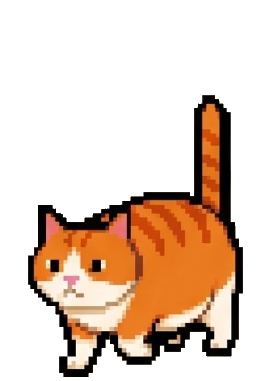
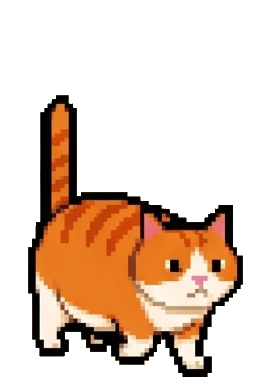
Afinar gatos: mirror de caminar, +50% tamaño, caja con gravedad y clics nuevos
- Caminar: se espeja orange_walk_0 para que ambos frames miren al mismo lado
  (antes cada frame miraba a un lado); la app voltea según la dirección.
- Tamaño de los gatos +50% (CatPx = CatSize * 1.5) en render, suelo y colisiones.
- La caja ahora también cae por gravedad hasta el fondo al soltarla; solo se
  guarda su posición horizontal.
- Clics del gato: IZQUIERDO mantenido = cargar/arrastrar; izquierdo solo =
  acariciar (aparece un corazón); DERECHO = abrir el menú de configuración.

Claude-Session: https://claude.ai/code/session_012JCTf6LhpAmhpn9dCk523M

diff --git a/src/Swip.App/Controls/CatSprite.xaml b/src/Swip.App/Controls/CatSprite.xaml
@@ -11,6 +11,11 @@
             </Image.RenderTransform>
         </Image>
 
+        <!-- Corazón al acariciar -->
+        <TextBlock x:Name="Heart" Text="&#x2665;" Foreground="#FFFF6E8A" FontSize="18"
+                   HorizontalAlignment="Center" VerticalAlignment="Top" Margin="0,-6,0,0"
+                   Visibility="Collapsed" />
+
         <!-- Etiqueta con el nombre de la sesión -->
         <Border x:Name="LabelBox" Background="#AA202124" CornerRadius="4" Padding="4,1"
                 HorizontalAlignment="Center" VerticalAlignment="Bottom" Margin="0,0,0,-2">

diff --git a/src/Swip.App/MainWindow.xaml.cs b/src/Swip.App/MainWindow.xaml.cs
@@ -41,6 +41,7 @@ public partial class MainWindow : Window
     private bool _boxMoved;
     private double _boxStartLeft, _boxStartTop;
     private Point _boxGrab;
+    private double _boxVy;
 
     // Arrastre de un gato
     private CatSprite? _catDrag;
@@ -72,6 +73,7 @@ public partial class MainWindow : Window
     }
 
     private double BoxSize => Math.Clamp(_settings.CatSize, 48, 96);
+    private double CatPx => _settings.CatSize * 1.5;
 
     protected override void OnSourceInitialized(EventArgs e)
     {
@@ -138,8 +140,8 @@ public partial class MainWindow : Window
     /// <summary>Recalcula la "línea de suelo" y reubica a los gatos dentro de la franja.</summary>
     private void RepositionCats()
     {
-        double baseY = Height - _settings.CatSize;
-        double maxX = Math.Max(0, Width - _settings.CatSize);
+        double baseY = Height - CatPx;
+        double maxX = Math.Max(0, Width - CatPx);
         foreach (var (_, agent) in _agents)
         {
             agent.Y = baseY;
@@ -147,7 +149,7 @@ public partial class MainWindow : Window
             if (agent.X < 0) agent.X = 0;
         }
         foreach (var (_, sprite) in _sprites)
-            sprite.SetCatSize(_settings.CatSize);
+            sprite.SetCatSize(CatPx);
 
         RepositionBox();
     }
@@ -189,7 +191,7 @@ public partial class MainWindow : Window
 
         foreach (var (id, agent) in _agents)
         {
-            agent.Update(dt, Width, Height, _settings.CatSize);
+            agent.Update(dt, Width, Height, CatPx);
             if (_sprites.TryGetValue(id, out var sprite))
             {
                 Canvas.SetLeft(sprite, agent.X);
@@ -198,7 +200,30 @@ public partial class MainWindow : Window
             }
         }
 
+        UpdateBoxGravity(dt);
         UpdateClickThrough();
+    }
+
+    /// <summary>La caja también cae por gravedad hasta el fondo cuando no se está arrastrando.</summary>
+    private void UpdateBoxGravity(double dt)
+    {
+        if (Box.IsMouseCaptured) return;
+        double floor = Math.Max(0, Height - BoxSize);
+        double by = Canvas.GetTop(Box);
+        if (double.IsNaN(by)) { Canvas.SetTop(Box, floor); return; }
+
+        if (by < floor - 0.5)
+        {
+            _boxVy += 2200 * dt;
+            by += _boxVy * dt;
+            if (by >= floor) { by = floor; _boxVy = 0; }
+            Canvas.SetTop(Box, by);
+        }
+        else if (by != floor)
+        {
+            _boxVy = 0;
+            Canvas.SetTop(Box, floor);
+        }
     }
 
     /// <summary>
@@ -258,8 +283,8 @@ public partial class MainWindow : Window
                 _agents.Remove(gone);
             }
 
-            double maxX = Math.Max(0, Width - _settings.CatSize);
-            double baseY = Height - _settings.CatSize;
+            double maxX = Math.Max(0, Width - CatPx);
+            double baseY = Height - CatPx;
 
             foreach (var u in users)
             {
@@ -294,7 +319,7 @@ public partial class MainWindow : Window
 
                     _agents[u.UserName] = agent;
 
-                    var sprite = new CatSprite(agent, _settings.CatSize);
+                    var sprite = new CatSprite(agent, CatPx);
                     sprite.ShowLabel(_settings.ShowLabels);
                     WireSprite(sprite);
                     Canvas.SetLeft(sprite, agent.X);
@@ -341,11 +366,12 @@ public partial class MainWindow : Window
 
     private void WireSprite(CatSprite sprite)
     {
-        // Arrastrar: botón DERECHO mantenido (el gato se "carga"). Clic (izq o der sin mover): menú.
-        sprite.MouseRightButtonDown += Cat_Down;
+        // Clic IZQUIERDO mantenido = cargar/arrastrar; clic izquierdo solo = acariciar (corazón).
+        // Clic DERECHO = abrir el menú de configuración del gato.
+        sprite.MouseLeftButtonDown += Cat_Down;
         sprite.MouseMove += Cat_Move;
-        sprite.MouseRightButtonUp += Cat_Up;
-        sprite.MouseLeftButtonUp += (s, e) =>
+        sprite.MouseLeftButtonUp += Cat_Up;
+        sprite.MouseRightButtonUp += (s, e) =>
         {
             OpenInfo((CatSprite)s);
             e.Handled = true;
@@ -370,7 +396,7 @@ public partial class MainWindow : Window
         if (!sprite.IsMouseCaptured || _catDrag != sprite) return;
 
         var p = e.GetPosition(Yard);
-        double x = Math.Clamp(p.X - _catGrab.X, 0, Math.Max(0, Width - _settings.CatSize));
+        double x = Math.Clamp(p.X - _catGrab.X, 0, Math.Max(0, Width - CatPx));
         double y = Math.Clamp(p.Y - _catGrab.Y, 0, Math.Max(0, Height));
         sprite.Agent.X = x;
         sprite.Agent.Y = y;
@@ -400,7 +426,7 @@ public partial class MainWindow : Window
         }
         else
         {
-            OpenInfo(sprite); // clic derecho sin mover: abrir menú
+            sprite.Agent.Pet(); // clic izquierdo sin mover: acariciar (corazón)
         }
         e.Handled = true;
     }
@@ -495,8 +521,9 @@ public partial class MainWindow : Window
 
         if (_boxMoved)
         {
+            // Solo guardamos la X; la caja cae por gravedad hasta el fondo.
             _settings.BoxLeft = Canvas.GetLeft(Box);
-            _settings.BoxTop = Canvas.GetTop(Box);
+            _settings.BoxTop = null;
             _store.Save(_settings);
         }
         else
@@ -688,8 +715,8 @@ public partial class MainWindow : Window
 
         // Devolver los gatos a una posición automática.
         foreach (var pref in _settings.Cats.Values) { pref.X = null; pref.Y = null; }
-        double baseY = Height - _settings.CatSize;
-        double maxX = Math.Max(0, Width - _settings.CatSize);
+        double baseY = Height - CatPx;
+        double maxX = Math.Max(0, Width - CatPx);
         foreach (var agent in _agents.Values)
         {
             agent.X = _rng.NextDouble() * maxX;

diff --git a/src/Swip.App/World/CatAgent.cs b/src/Swip.App/World/CatAgent.cs
@@ -67,8 +67,13 @@ public sealed class CatAgent : INotifyPropertyChanged
     /// <summary>True mientras el usuario arrastra el gato (lo lleva el ratón; sin gravedad).</summary>
     public bool Dragging { get; set; }
 
+    /// <summary>Caricia: muestra un corazón y pone al gato a "jugar" un momento.</summary>
+    public void Pet() => _petTimer = 1.1;
+    public bool IsPetting => _petTimer > 0;
+
     private double _animTimer;
     private double _wander;
+    private double _petTimer;
 
     /// <summary>
     /// Acción actual según el estado de la sesión (o Carry si se está arrastrando):
@@ -76,12 +81,14 @@ public sealed class CatAgent : INotifyPropertyChanged
     /// </summary>
     public CatAction Action =>
         Dragging ? CatAction.Carry
+        : IsPetting ? CatAction.Play
         : IsCurrent ? CatAction.Walk
         : HasSession ? CatAction.Play
         : CatAction.Sleep;
 
     public void Update(double dt, double viewportWidth, double viewportHeight, double catSize)
     {
+        if (_petTimer > 0) _petTimer -= dt;
         CatAction act = Action;
 
         // Animación de 2 frames, a ritmo distinto por acción.

diff --git a/src/Swip.App/Controls/CatSprite.xaml.cs b/src/Swip.App/Controls/CatSprite.xaml.cs
@@ -43,6 +43,7 @@ public partial class CatSprite : UserControl
     {
         Img.Source = CatSprites.Get(Agent.Color, Agent.Action, Agent.FrameIndex);
         Flip.ScaleX = Agent.FacingRight ? 1 : -1;
+        Heart.Visibility = Agent.IsPetting ? Visibility.Visible : Visibility.Collapsed;
     }
 
     public void ShowLabel(bool show) =>
